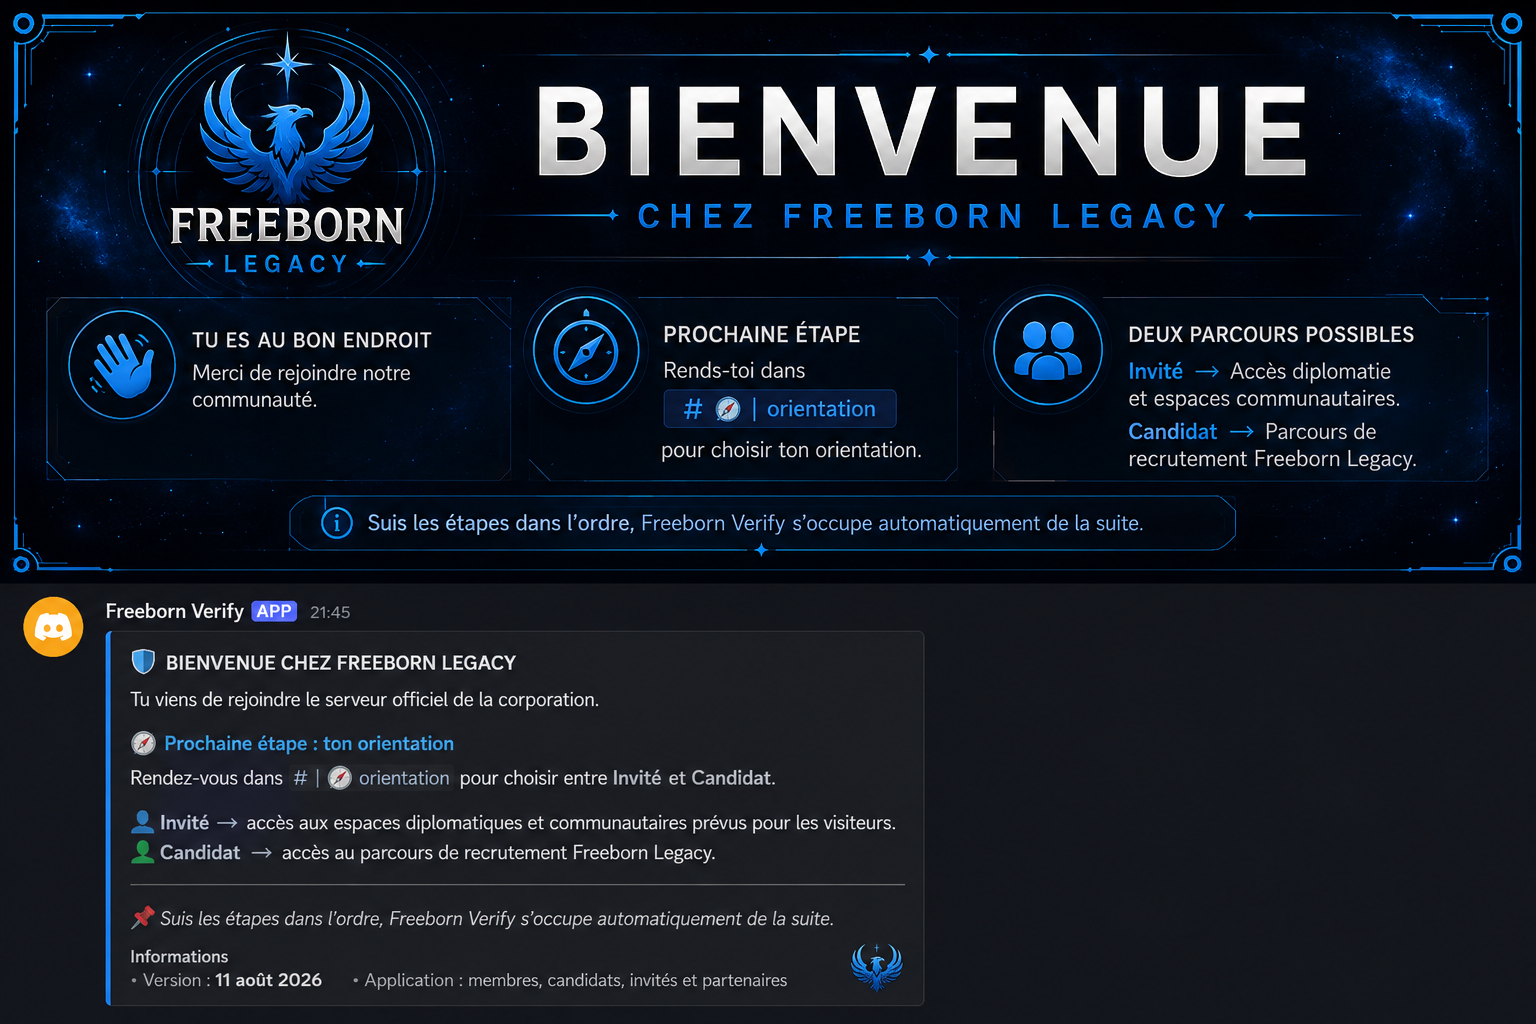
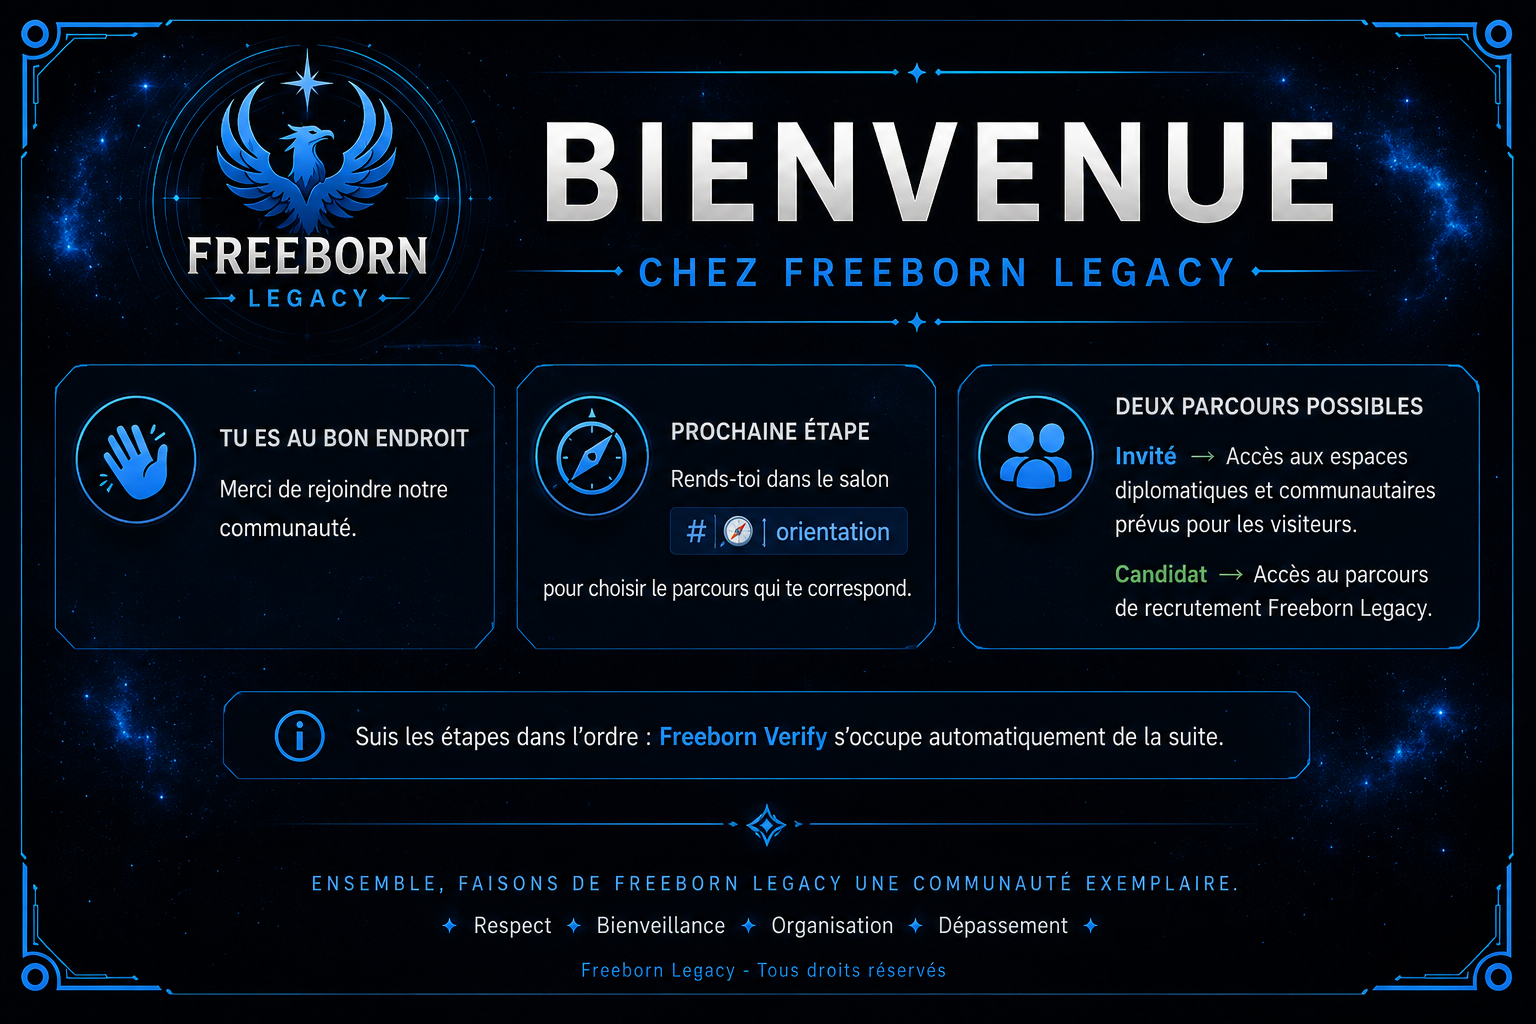
V3 - Visuels Bienvenue et Règlement en premier

diff --git a/app.py b/app.py
@@ -6530,24 +6530,29 @@ def interactions():
             "data": {
                 "embeds": [
                     {
-                        "title":
-                            "🛡 RÈGLEMENT DISCORD — FREEBORN LEGACY",
-
-                        "description":
-                            "Le règlement présenté ci-dessous complète "
-                            "le **règlement natif de Discord**, qui reste "
-                            "le système officiel d'acceptation lors de "
-                            "l'arrivée sur le serveur.\n\n"
-                            "📜 **Son respect est obligatoire pendant "
-                            "toute ta présence sur Freeborn Legacy.**",
-
-                        "color":
-                            0x2F81F7,
-
                         "image": {
                             "url":
                                 rules_image_url
                         },
+
+                        "color":
+                            0x2F81F7,
+                    },
+
+                    {
+                        "title":
+                            "🛡 RÈGLEMENT DISCORD — FREEBORN LEGACY",
+
+                        "description":
+                            "📜 L'acceptation du règlement est gérée "
+                            "directement par **Discord** lors de l'arrivée "
+                            "sur le serveur.\n\n"
+                            "Le visuel ci-dessus en présente les principes "
+                            "essentiels. **Son respect reste obligatoire "
+                            "pendant toute ta présence sur Freeborn Legacy.**",
+
+                        "color":
+                            0x2F81F7,
 
                         "fields": [
                             {
@@ -6567,10 +6572,9 @@ def interactions():
 
                         "footer": {
                             "text":
-                                "Freeborn Legacy • Règlement Discord • "
-                                "Communauté, respect, organisation"
+                                "Freeborn Legacy • Règlement Discord"
                         },
-                    }
+                    },
                 ],
             },
         })
@@ -6599,67 +6603,39 @@ def interactions():
             "data": {
                 "embeds": [
                     {
-                        "title":
-                            "🛡 BIENVENUE CHEZ FREEBORN LEGACY",
-
-                        "description":
-                            "Tu viens de rejoindre le serveur officiel "
-                            "de **Freeborn Legacy**.\n\n"
-                            "🧭 **Prochaine étape : ton orientation**\n"
-                            "Rends-toi dans le salon **Orientation** "
-                            "pour choisir le parcours qui te correspond.",
-
-                        "color":
-                            0x2F81F7,
-
                         "image": {
                             "url":
                                 welcome_image_url
                         },
 
-                        "fields": [
-                            {
-                                "name":
-                                    "🔵 Invité",
+                        "color":
+                            0x2F81F7,
+                    },
 
-                                "value":
-                                    "Accès aux espaces diplomatiques et "
-                                    "communautaires prévus pour les visiteurs.",
+                    {
+                        "title":
+                            "🧭 PROCHAINE ÉTAPE : ORIENTATION",
 
-                                "inline":
-                                    True,
-                            },
-                            {
-                                "name":
-                                    "🟢 Candidat",
+                        "description":
+                            "Rends-toi dans le salon **Orientation** "
+                            "pour choisir ton parcours.\n\n"
+                            "🔵 **Invité** → accès aux espaces diplomatiques "
+                            "et communautaires prévus pour les visiteurs.\n"
+                            "🟢 **Candidat** → accès au parcours de "
+                            "recrutement Freeborn Legacy.\n\n"
+                            "📌 **Suis les étapes dans l'ordre : "
+                            "Freeborn Verify s'occupe automatiquement "
+                            "de la suite.**",
 
-                                "value":
-                                    "Accès au parcours de recrutement "
-                                    "Freeborn Legacy.",
-
-                                "inline":
-                                    True,
-                            },
-                            {
-                                "name":
-                                    "📌 À retenir",
-
-                                "value":
-                                    "Suis les étapes dans l'ordre : "
-                                    "**Freeborn Verify s'occupe automatiquement "
-                                    "de la suite.**",
-
-                                "inline":
-                                    False,
-                            },
-                        ],
+                        "color":
+                            0x2F81F7,
 
                         "footer": {
                             "text":
                                 "Freeborn Legacy • Bienvenue • "
                                 "Orientation → Invité ou Candidat"
                         },
-                    }
+                    },
                 ],
             },
         })
